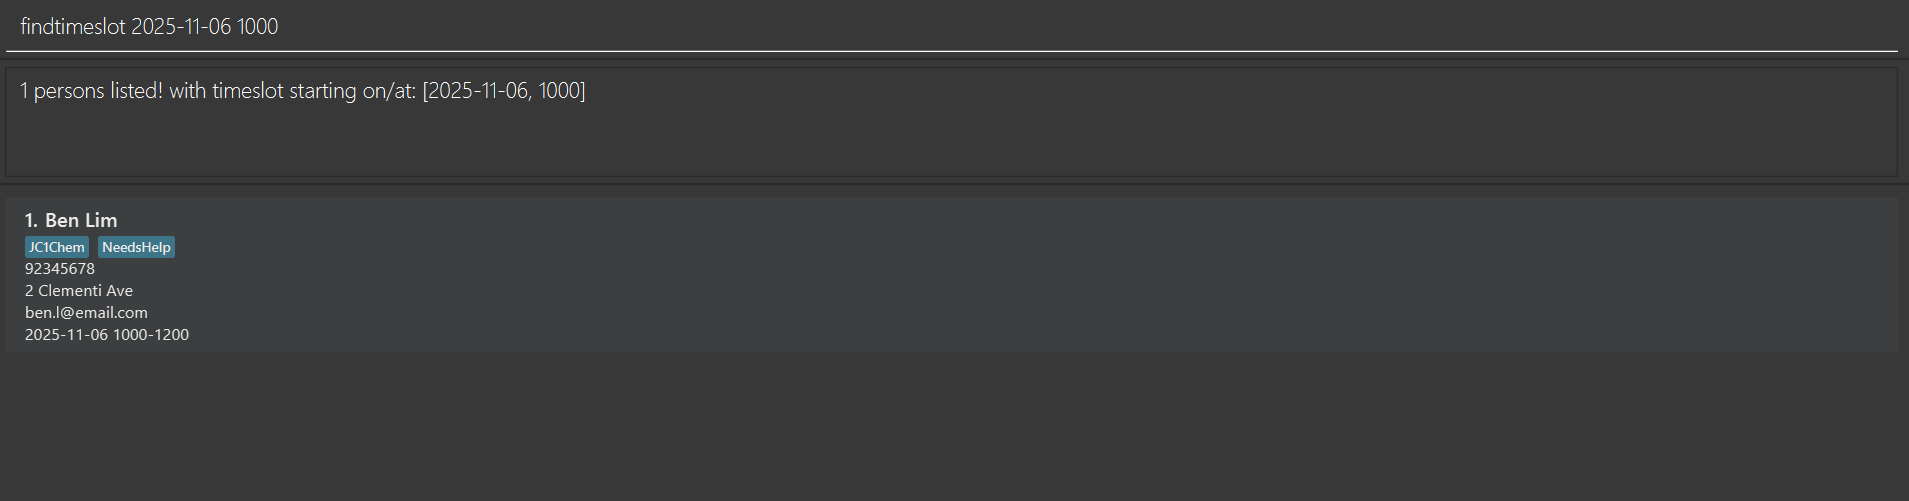
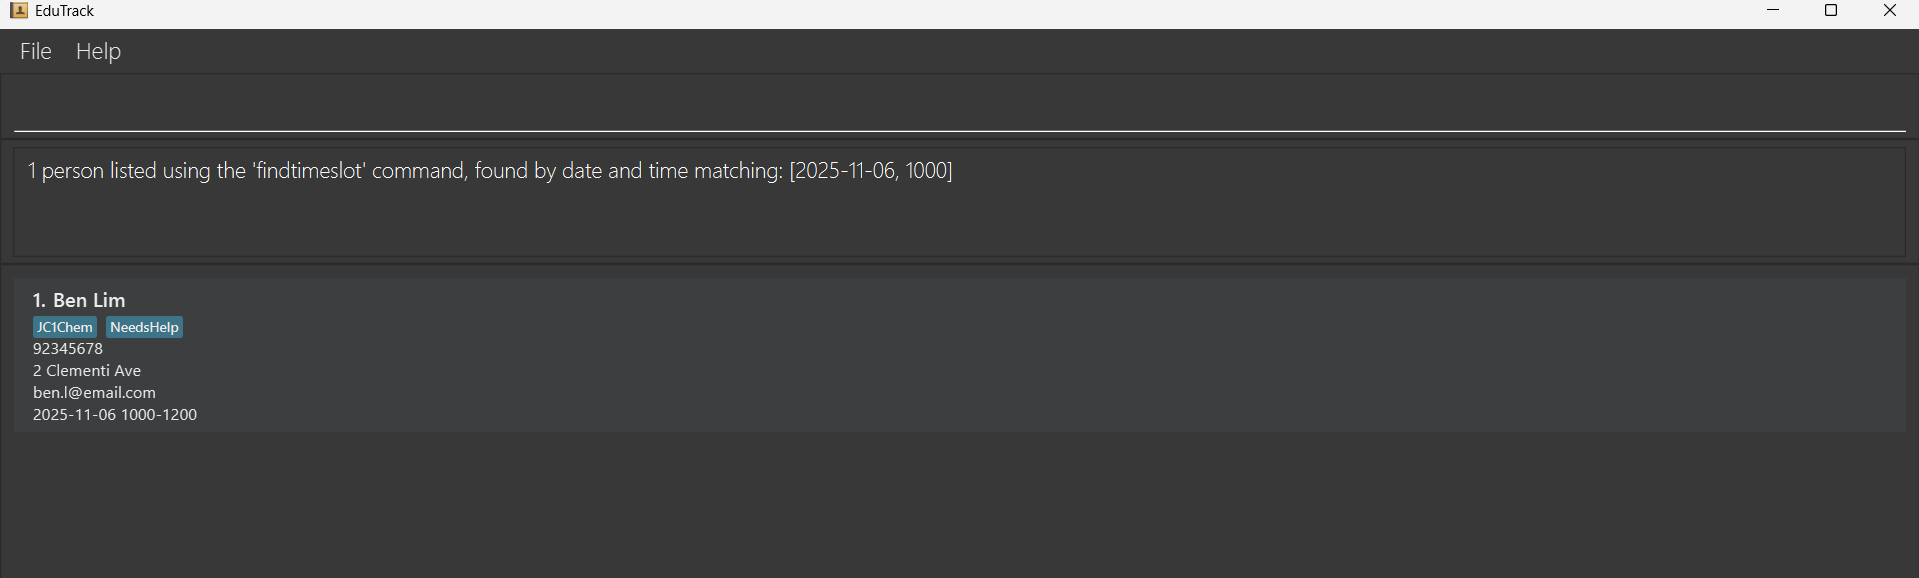
Final changes to user + dev guide

diff --git a/docs/DeveloperGuide.md b/docs/DeveloperGuide.md
@@ -182,12 +182,12 @@ The following sequence diagram shows how a `filtertimeslot` operation goes throu
 **Aspect: How to parse the filter parameters:**
 
 * **Alternative 1 (current choice):** Use flexible, optional prefixes (e.g., `sd/`, `st/`, `et/`).
-    * Pros: Highly flexible. Allows users to filter by just a start time (`st/0900`), just a date range (`sd/2025-10-20 ed/2025-10-22`), or a specific time on a specific day (`sd/2025-10-20 st/0900 et/1700`).
-    * Cons: Parsing logic is more complex as many combinations are valid.
+    * **Pros:** Highly flexible. Allows users to filter by just a start time (`st/0900`), just a date range (`sd/2025-10-20 ed/2025-10-22`), or a specific time on a specific day (`sd/2025-10-20 st/0900 et/1700`).
+    * **Cons:** Parsing logic is more complex as many combinations are valid.
 
 * **Alternative 2:** A single, fixed-format argument (e.g., `filtertimeslot YYYY-MM-DD to YYYY-MM-DD`).
-    * Pros: Very simple to parse.
-    * Cons: Much less flexible. It's difficult to filter for "all 9am-12pm slots on any date," which is a key use case.
+    * **Pros:** Very simple to parse.
+    * **Cons:** Much less flexible. It's difficult to filter for "all 9am-12pm slots on any date," which is a key use case.
 
 **Aspect: Handling of Relative Time ("Now"/"Today")**
 
@@ -236,16 +236,16 @@ The following activity diagram summarizes the logic flow for the `clearpast` com
 **Aspect: How to handle recurring timeslots:**
 
 * **Alternative 1 (current choice):** A manual `clearpast` command that checks for a `t/recurring` tag.
-    * Pros: Simple to implement and understand. The user retains full control over when their schedule is cleaned up. Fits well within a command-line application.
-    * Cons: The user needs to remember to run the command. Only supports one type of recurrence (weekly).
+    * **Pros:** Simple to implement and understand. The user retains full control over when their schedule is cleaned up. Fits well within a command-line application.
+    * **Cons:** The user needs to remember to run the command. Only supports one type of recurrence (weekly).
 
 * **Alternative 2:** A fully abstract `Schedule` class with `OneTimeSlot` and `RecurringSlot` subclasses.
-    * Pros: Far more powerful. Could support complex schedules (e.g., "every Monday and Wednesday"). The `list` command could show all future occurrences.
-    * Cons: Massive architectural change. It would require rewriting all time-based commands (`add`, `edit`, `findtimeslot`, `filtertimeslot`, `list` sorting) and the conflict detection logic.
+    * **Pros:** Far more powerful. Could support complex schedules (e.g., "every Monday and Wednesday"). The `list` command could show all future occurrences.
+    * **Cons:** Massive architectural change. It would require rewriting all time-based commands (`add`, `edit`, `findtimeslot`, `filtertimeslot`, `list` sorting) and the conflict detection logic.
 
 * **Alternative 3:** An automatic background service that "watches" the clock.
-    * Pros: Fully automated.
-    * Cons: Not feasible for a simple command-line application. It's impossible to resolve conflicts (like in Alternative 1) without user input, leading to data being lost or updates failing silently.
+    * **Pros:** Fully automated.
+    * **Cons:** Not feasible for a simple command-line application. It's impossible to resolve conflicts (like in Alternative 1) without user input, leading to data being lost or updates failing silently.
 
 **Aspect: Conflict Resolution Strategy for Recurring Slots**
 
@@ -395,7 +395,7 @@ The following activity diagram summarizes what happens when a user executes a ne
 * prefers typing to mouse interactions
 * is reasonably comfortable using CLI apps
 * wants to stay organized by storing student details, lesson schedules, and progress notes in one fast, CLI-based system
-* wants to search for upcoming students in a particular appointment slot
+* wants to search for upcoming students in a particular appointment slot, and filter them by timeslots.
 * wants to sort all students by timeslot, earlier first
 
 **Value proposition**: manage contacts faster than a typical mouse/GUI driven app
@@ -470,7 +470,7 @@ Priorities: High (must have) - `* * *`, Medium (nice to have) - `* *`, Low (unli
       Use case resumes at step 4.
 
 * 3b. User enters invalid data that is of wrong format.
-    * 3b1. EduTrack shows an error message `Emails should be of the format local-part@domain`.
+    * 3b1. EduTrack shows an error message `Emails should be of the format local-part@domain...`.
 
       Use case resumes at step 2.
 
@@ -506,8 +506,6 @@ Priorities: High (must have) - `* * *`, Medium (nice to have) - `* *`, Low (unli
 
       Use case resumes at step 4.
 
-Here are the improved use cases for your `DeveloperGuide.md`, updated to reflect your application's precise logic, error messages, and command outputs based on our conversation.
-
 ---
 
 **Use case 4: Find persons by tag**
@@ -526,7 +524,7 @@ Here are the improved use cases for your `DeveloperGuide.md`, updated to reflect
     * 3a1. EduTrack shows an error message: `Invalid command format! findtag: Finds all persons...`.
       Use case resumes at step 2.
 * 4a. No persons are found with the given tag.
-    * 4a1. EduTrack shows a message `0 persons listed! with tag(s): []` and displays an empty list.
+    * 4a1. EduTrack shows a message `0 persons listed! with tag(s): [GIVEN_TAG]` and displays an empty list.
       Use case ends.
 
 ---
@@ -539,7 +537,7 @@ Here are the improved use cases for your `DeveloperGuide.md`, updated to reflect
 2.  EduTrack shows a list of persons.
 3.  User requests to find persons with a time slot on a specific date and time (e.g., `findtimeslot 2025-11-06 1000`).
 4.  EduTrack performs an **AND** search, filtering the list to show only persons who have a time slot on that date **AND** starting at that time.
-5.  EduTrack shows a success message, e.g., `1 persons listed! with timeslot starting on/at: [2025-11-06, 1000]`.
+5.  EduTrack shows a success message, e.g., `1 person listed using the 'findtimeslot' command, found by date and time matching: [2025-11-06, 1000]`.
     Use case ends.
 
 **Extensions**
@@ -554,7 +552,7 @@ Here are the improved use cases for your `DeveloperGuide.md`, updated to reflect
     * 3c1. EduTrack shows a specific error message: `Invalid keyword: '7837e832e'. Keywords must be a valid date (YYYY-MM-DD) or a valid time (HHMM).`.
       Use case resumes at step 2.
 * 5a. No persons are found.
-    * 5a1. EduTrack shows a message `0 persons listed! with timeslot starting on/at: [2025-11-06, 0900]` and displays an empty list.
+    * 5a1. EduTrack shows a message `0 persons listed using the 'findtimeslot' command, found by date and time matching: [GIVEN_TIMESLOT]` and displays an empty list.
       Use case ends.
 
 ---
@@ -582,7 +580,7 @@ Here are the improved use cases for your `DeveloperGuide.md`, updated to reflect
     * 3c1. EduTrack shows an error message: `Start date must be before or on end date.`.
       Use case resumes at step 2.
 * 5a. No persons are found within the filter range.
-    * 5a1. EduTrack shows a message `0 persons listed! with timeslots...` and displays an empty list.
+    * 5a1. EduTrack shows a message `0 persons listed using the 'filtertimeslot' command...` and displays an empty list.
       Use case ends.
 
 ---
@@ -598,10 +596,9 @@ Here are the improved use cases for your `DeveloperGuide.md`, updated to reflect
     * If the contact does **not** have the `t/recurring` tag, it is **deleted** from EduTrack.
     * If the contact **has** the `t/recurring` tag, EduTrack calculates the next weekly occurrence. It then attempts to update the contact to this new time slot.
 5.  EduTrack shows a multi-part success message summarizing the actions, e.g.:
-    `ClearPast command successful.`
     `Deleted 1 past contact(s): Charlie Goh`
     `Updated 1 recurring contact(s): Diana Heng`
-    `Could not update 1 recurring contact(s) due to conflicts: Ethan Yeo (Conflict: This time slot conflicts with: Ben Lim [2025-11-06 1000-1200])`.
+    `Could not update 1 recurring contact(s) due to conflicts: Ethan Yeo's next recurring slot [2025-11-06 1000-1200] conflicts with Ben Lim [2025-11-06 1000-1200]`.
     Use case ends.
 
 **Extensions**
@@ -676,15 +673,15 @@ testers are expected to do more *exploratory* testing. The sample data loaded on
 
 1.  **Adding a person with a time slot conflict**
 
-    1.  **Prerequisites:** Sample data is loaded. Note Alice Tan's slot: `2025-11-05 1400-1600`.
-    2.  **Test case:** `add n/New Student p/12345678 e/new@email.com a/New Address ts/2025-11-05 1500-1700` (This slot overlaps with Alice Tan)
-    3.  **Expected:** No person is added. An error message is shown in the result display, identifying the conflict: `This time slot conflicts with: Alice Tan [2025-11-05 1400-1600]`.
+    1.  **Prerequisites:** Sample data is loaded. Note Fiona Wee's slot: `2025-11-12 1100-1300`.
+    2.  **Test case:** `add n/New Student p/12345678 e/new@email.com a/New Address ts/2025-11-12 1000-1200` (This slot overlaps with Fiona Wee)
+    3.  **Expected:** No person is added. An error message is shown in the result display, identifying the conflict: `This time slot conflicts with: Alice Tan [2025-11-12 1000-1200]`.
 
 2.  **Adding a person with invalid fields**
 
-    1.  **Test case (invalid time):** `add n/New Student p/12345678 e/new@email.com a/New Address ts/2025-11-05 1500-1400`
+    1.  **Test case (invalid time):** `add n/New Student p/12345678 e/new@email.com a/New Address ts/2025-11-12 1500-1400`
     2.  **Expected:** No person is added. Error message about invalid time slot range.
-    3.  **Test case (missing name):** `add p/12345678 e/new@email.com a/New Address ts/2025-11-05 1500-1700`
+    3.  **Test case (missing name):** `add p/12345678 e/new@email.com a/New Address ts/2025-11-12 1500-1700`
     4.  **Expected:** No person is added. Error message about missing `n/` prefix.
 
 ### Locating by tag (`findtag`)
@@ -711,7 +708,7 @@ testers are expected to do more *exploratory* testing. The sample data loaded on
 
     1.  **Prerequisites:** Sample data is loaded.
     2.  **Test case:** `findtag NonExistentTag`
-    3.  **Expected:** The list is empty. Status message indicates `0 persons listed!`.
+    3.  **Expected:** The list is empty. Status message indicates `0 persons listed using the 'findtag' command with tag(s): [NonExistentTag]`.
 
 5.  **Invalid `findtag` command**
 
@@ -805,7 +802,7 @@ The test case below is **time-sensitive**. You will need to copy and paste the `
 
 1.  **Test setup (Full Scenario)**
 
-    1.  Note your current system date and time. For this example, let's assume it's `2025-11-02 15:30:00`.
+    1.  Note your current system date and time. For this example, let's assume it's `2025-11-02 15:30:00`. Adjust the timeslots that you set accordingly based on current date.
     2.  First, add a "blocker" contact for *next week*. This contact will be the conflict target for one of our recurring students.
         * `add n/Future Blocker p/333 e/block@e.com a/block ts/2025-11-09 15:31-15:33 t/TestBlock`
     3.  **Quickly**, add the following three contacts. Their time slots are set 1-2 minutes in the future and will all be in the past in about 4-5 minutes.
@@ -823,7 +820,7 @@ The test case below is **time-sensitive**. You will need to copy and paste the `
     2.  **Expected:** A composite success message should appear, similar to:
         * `Deleted 1 past contact(s): Past Student`
         * `Updated 1 recurring contact(s): Update Student`
-        * `Could not update 1 recurring contact(s) due to conflicts: Conflict Student (Conflict: This time slot conflicts with: Future Blocker [2025-11-09 15:31-15:33])`
+        * `Could not update 1 recurring contact(s) due to conflicts: Conflict Student's next recurring slot [ts/2025-11-09 15:31-15:33] conflicts with: Future Blocker [2025-11-09 15:31-15:33])`
 
 4.  **Test case: Verify state with `list`**
 
@@ -877,16 +874,21 @@ The test case below is **time-sensitive**. You will need to copy and paste the `
     1.  **Test case:** `clear 123`
     2.  **Expected:** Error message: `Invalid command format! clear: ...`
 
-### Planned Enhancements
+--------------------------------------------------------------------------------------------------------------------
 
-**Team Size:** 5
+## **Appendix: Planned Enhancements**
 
 1.  **Support for Multiple Lessons per Person:** The current data model supports only a one-to-one relationship between a `Person` and a `TimeSlot`. This will be refactored to a one-to-many relationship, allowing a single `Person` to be associated with a list of `TimeSlot` objects. Business logic will be added to ensure these timeslots do not overlap.
 2.  **Support for Multi-Person Timeslots (Group Tuition):** The data model will be enhanced to support a many-to-many relationship, allowing multiple `Person` objects to be associated with a single `TimeSlot`.
 3.  **Unique, Immutable Student ID:** We plan to implement a system to generate a unique, non-editable Student ID (e.g., `S-0001`) for every `Person` created.
     * **Justification:** This ID will serve as the stable primary key for each student. This prevents data ambiguity when two students have the same name and ensures data integrity if a student's name changes. This ID will be crucial for stable integration with other systems, such as payment portals or external academic record databases.
 4.  **Timeslots Spanning Across Midnight:** The `TimeSlot` model will be re-designed to support start and end `LocalDateTime` objects instead of just `LocalDate` and `LocalTime`. This will allow a `TimeSlot` to correctly span across calendar days (e.g., 23:00 on Monday to 01:00 on Tuesday).
-5.  **Flexible Recurrence Intervals:** The recurrence logic is currently hardcoded for weekly intervals (e.g., the `clearpast` command advances a `t/recurring` lesson by 7 days). This will be refactored to support more versatile intervals, such as daily, bi-weekly, and monthly.
+5.  **Flexible Recurrence Intervals:** The recurrence logic is currently hardcoded for weekly intervals (e.g., the `clearpast` command advances a `t/recurring` lesson by intervals of 7 days). This will be refactored to support more versatile intervals, such as daily, bi-weekly, and monthly.
 6.  **Enhanced Help Window:** The `help` command's UI will be improved to include a concise command summary. This provides users with an "at-a-glance" view of all available commands and their syntax, in addition to the existing link to the user guide.
+7.  **Taller Result Display:** The UI component for displaying command results will be enlarged vertically. This will allow longer success or error messages (e.g., from `find` or `clearpast`) to be fully visible without requiring the user to scroll.
+    Based on a review of your user guide, here are three excellent planned enhancements you can add.
+8.  **Cumulative Tag Editing:** The `edit` command currently overwrites all existing tags with the new ones provided. We plan to refactor this to support cumulative editing. This would introduce new prefixes (e.g., `t+/` to add a tag, `t-/` to remove a tag), allowing users to modify a person's tags without losing all existing ones.
+9.  **Support for Multiple Phone Numbers:** The `Person` model is currently limited to one phone number. We plan to enhance the data model to allow storing multiple phone numbers per person (e.g., a "Student" number and a "Parent" number). This would involve updating the `add` and `edit` commands to manage these multiple fields.
+10. **Import/Export to CSV:** The app currently relies on users manually editing the `edutrack.json` file for bulk changes, which is risky and can lead to data corruption. We plan to implement `import` and `export` commands to allow users to safely manage their student list in a common format like CSV.
 
 

diff --git a/docs/UserGuide.md b/docs/UserGuide.md
@@ -17,7 +17,7 @@ EduTrack is a **desktop application designed for private tutors who provide one-
 1.  Ensure you have Java `17` or above installed in your Computer.<br>
     **Mac users:** Ensure you have the precise JDK version prescribed [here](https://se-education.org/guides/tutorials/javaInstallationMac.html).
 
-2.  Download the latest `.jar` file from [here](https://github.com/AY2526S1-CS2103T-T15-1/tp/releases/tag/v1.6).
+2.  Download the latest `.jar` file from [here](https://github.com/AY2526S1-CS2103T-T15-1/tp/releases/tag/v1.6.1).
 
 3.  Copy the file to the folder you want to use as the _home folder_ for EduTrack.
 
@@ -31,7 +31,7 @@ EduTrack is a **desktop application designed for private tutors who provide one-
 
     * `list` : Lists all contacts which are **sorted by time slot**.
 
-    * `add n/Alice Tan p/91234567 e/alice.t@email.com a/1 Orchard Road ts/2025-11-05 1400-1600 t/Sec3Math` : Adds a contact named `Alice Tan` with a specified tag `Sec3Math` and time slot `2025-11-05 1400-1600`, amongst other fields, to EduTrack.
+    * `add n/Alice Tan p/91234567 e/alice.t@email.com a/1 Orchard Road ts/2025-12-05 1400-1600 t/Sec3Math` : Adds a contact named `Alice Tan` with a specified tag `Sec3Math` and time slot `2025-11-05 1400-1600`, amongst other fields, to EduTrack.
 
     * `delete 3` : Deletes the 3rd contact shown in the current list.
 
@@ -86,7 +86,7 @@ Format: `add n/NAME p/PHONE_NUMBER e/EMAIL a/ADDRESS ts/YYYY-MM-DD HHMM-HHMM [t/
 * **Duplicate names** are allowed in EduTrack, as it is common for multiple students to share the same name. 
 * **Duplicate phone numbers** are also permitted, since siblings may provide the same parent’s contact number. 
 * **Duplicate email addresses** are allowed for the same reason, as siblings may share a parent’s email address.
-* * **Duplicate home addresses** are allowed for the same reason, as siblings may share the same home address.
+* **Duplicate home addresses** are allowed for the same reason, as siblings may share the same home address.
 * However, if two persons have the same name, phone, email and address, they will be flagged as duplicates.
 * There is a length limit imposed on fields (50 for names, email and address, 20 for phone, and 25 for tags).
 * The `ts/` (time slot) parameter is **mandatory** when adding a new student. 
@@ -106,12 +106,12 @@ Format: `add n/NAME p/PHONE_NUMBER e/EMAIL a/ADDRESS ts/YYYY-MM-DD HHMM-HHMM [t/
 </box>
 
 Examples:
-* `add n/Alice Tan p/91234567 e/alice.t@email.com a/1 Orchard Road ts/2025-11-05 1400-1600 t/Sec3Math` (Adds Alice Tan with one subject tag)
-* `add n/Ben Lim p/92345678 e/ben.l@email.com a/2 Clementi Ave ts/2025-11-06 1000-1200 t/JC1Chem t/NeedsHelp` (Adds Ben Lim with two tags)
-* `add n/George Png p/97890123 e/george.p@email.com a/7 Pasir Ris Drive ts/2025-11-10 0900-1100` (Adds George Png with no tags)
+* `add n/Alice Tan p/91234567 e/alice.t@email.com a/1 Orchard Road ts/2025-12-05 1400-1600 t/Sec3Math` (Adds Alice Tan with one subject tag)
+* `add n/Ben Lim p/92345678 e/ben.l@email.com a/2 Clementi Ave ts/2025-12-06 1000-1200 t/JC1Chem t/NeedsHelp` (Adds Ben Lim with two tags)
+* `add n/George Png p/97890123 e/george.p@email.com a/7 Pasir Ris Drive ts/2025-12-10 0900-1100` (Adds George Png with no tags)
 
 Example of timeslot-conflict (assuming Alice Tan was already added): 
-`add n/New Student p/12341234 e/new@email.com a/Some Address ts/2025-11-05 1500-1700`
+`add n/New Student p/12341234 e/new@email.com a/Some Address ts/2025-12-05 1500-1700`
 ![timeslot conflict with Alice Tan](images/timeslot-conflict-alicetan.png)
 
 ### Listing all persons : `list`
@@ -146,7 +146,7 @@ Format: `edit INDEX [n/NAME] [p/PHONE] [e/EMAIL] [a/ADDRESS] [ts/TIMESLOT] [t/TA
 Examples:
 * `edit 1 p/91112222 e/new.charlie@email.com` (Edits phone and email of the 1st student, Charlie Goh)
 * `edit 2 t/Urgent` (Edits the tags of the 2nd student, Diana Heng, replacing `Sec3Math` and `recurring` with `Urgent`)
-* `edit 5 n/Alice Tan Updated ts/2025-11-05 1430-1630` (Edits the name and time slot of the 5th student, Alice Tan)
+* `edit 5 n/Alice Tan Updated ts/2025-12-05 1430-1630` (Edits the name and time slot of the 5th student, Alice Tan)
 
 ![successful edit of Charlie](images/edit-success-message.png)
 
@@ -361,20 +361,21 @@ Furthermore, certain edits can cause EduTrack to behave in unexpected ways (e.g.
 **A**: Install the app in the other computer and overwrite the empty data file it creates with the file that contains the data of your previous EduTrack home folder.
 
 --------------------------------------------------------------------------------------------------------------------
-
 ## Known issues
 
 1.  **When using multiple screens**, if you move the application to a secondary screen, and later switch to using only the primary screen, the GUI will open off-screen. The remedy is to delete the `preferences.json` file created by the application before running the application again.
 2.  **If you minimize the Help Window** and then run the `help` command (or use the `Help` menu, or the keyboard shortcut `F1`) again, the original Help Window will remain minimized, and no new Help Window will appear. The remedy is to manually restore the minimized Help Window.
 3.  **One Timeslot per Person:** A person can only be scheduled for one timeslot. You cannot add a second lesson for the same person (e.g., one on Monday and one on Wednesday). You must delete the person, before adding a new person with the same details and edited timeslot.
 4.  **One Person per Timeslot:** The application does not support group lessons. Only one person can be assigned to a single timeslot.
-5.  **Timeslots Must Be on the Same Day:** A timeslot cannot cross midnight (e.g., `ts/2300-0100` is invalid). The latest possible end time is `2359`. 
+5.  **Timeslots Must Be on the Same Day:** A timeslot cannot cross midnight (e.g., `ts/2300-0100` is invalid). The latest possible end time is `2359`.
 6.  **Name Field Parsing:** The app supports special characters like `/` in names (e.g., `Karthik s/o Murugan`), however any text containing an *unknown* prefix (like `r/` for remarks that do not exist) before a *known* prefix will be considered part of the name.
     * **Example:** `add n/Tom r/good p/91234567`
     * **Result:** The person's name will be saved as `Tom r/good`.
     * **Workaround:** Always ensure correct, known prefixes are used in the commands.
 7.  **Recurring Tag is Weekly Only:** The application supports a `t/recurring` tag. Other commands (like `clearpast`) use this tag to manage repeating lessons. However, this tag *only* signifies a **weekly** recurrence. It is not possible to set up monthly or bi-weekly recurring lessons.
 8.  **Phone Numbers Only Accept Digits:** The application only accepts phone numbers containing digits (0-9). Special characters such as `+`, `(`, `)`, and spaces are not allowed. This is a design choice, as the app is intended for a local tuition context where international prefixes are not required.
+9.  **One Phone Number per Person:** The application supports only one phone number per person. It is not possible to store multiple numbers, such as a student's number and a parent's contact number.
+10. **Tag Editing Overwrites:** The `edit` command's tag `t/` prefix replaces *all* existing tags for a person[cite: 114]. It is not possible to add or remove a single tag; you must re-type all tags you wish the person to have.
 
 --------------------------------------------------------------------------------------------------------------------
 
@@ -382,15 +383,15 @@ Furthermore, certain edits can cause EduTrack to behave in unexpected ways (e.g.
 
 Action | Format, Examples
 -----------|----------------------------------------------------------------------------------------------------------------------------------------------------------------------
-**Add** | `add n/NAME p/PHONE_NUMBER e/EMAIL a/ADDRESS ts/YYYY-MM-DD HHMM-HHMM [t/TAG]…` <br> e.g., `add n/Alice Tan p/91234567 e/alice.t@email.com a/1 Orchard Road ts/2025-11-05 1400-1600 t/Sec3Math`
+**Add** | `add n/NAME p/PHONE_NUMBER e/EMAIL a/ADDRESS ts/YYYY-MM-DD HHMM-HHMM [t/TAG]…` <br> e.g., `add n/Alice Tan p/91234567 e/alice.t@email.com a/1 Orchard Road ts/2025-12-05 1400-1600 t/Sec3Math`
 **Clear** | `clear`
 **Delete** | `delete INDEX`<br> e.g., `delete 3`
 **Edit** | `edit INDEX [n/NAME] [p/PHONE_NUMBER] [e/EMAIL] [a/ADDRESS] [ts/TIMESLOT] [t/TAG]…`<br> e.g.,`edit 2 n/James Lee e/jameslee@example.com`
 **Find** | `find KEYWORD [MORE_KEYWORDS]…`<br> e.g., `find James Jake`
 **List** | `list`
 **Find by Tag**| `findtag TAG [MORE_TAGS]…` <br> e.g., `findtag Math English`
-**Find by Timeslot** | `findtimeslot [YYYY-MM-DD] [HHMM]` <br> e.g. `findtimeslot 2025-10-27 1400`
-**Filter by Timeslot** | `filtertimeslot [sd/START_DATE] [ed/END_DATE] [st/START_TIME] [et/END_TIME]` <br> e.g `filtertimeslot sd/2025-10-27 ed/2025-10-27 st/0800 et/1200`
+**Find by Timeslot** | `findtimeslot [YYYY-MM-DD] [HHMM]` <br> e.g. `findtimeslot 2025-11-27 1400`
+**Filter by Timeslot** | `filtertimeslot [sd/START_DATE] [ed/END_DATE] [st/START_TIME] [et/END_TIME]` <br> e.g `filtertimeslot sd/2025-11-27 ed/2025-11-27 st/0800 et/1200`
 **Clear past Timeslots** | `clearpast`
 **Help** | `help`
 **Exit** | `exit`
